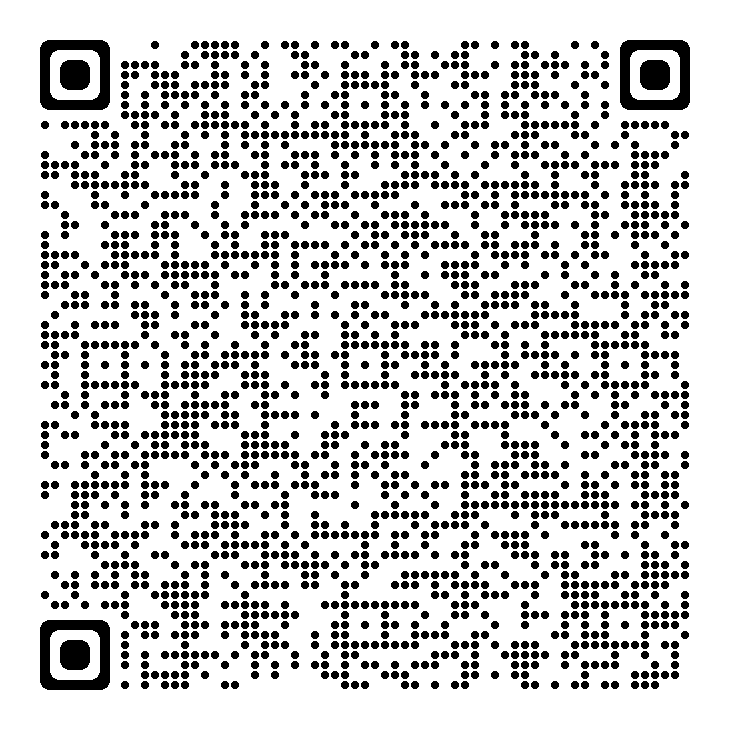
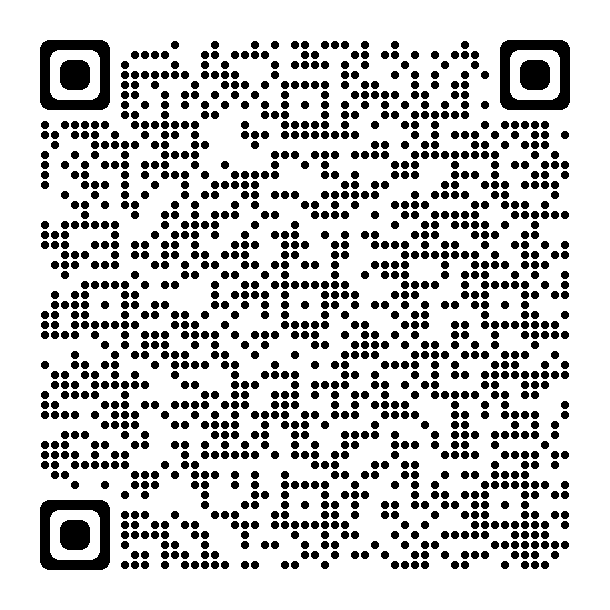
Update

diff --git a/index.html b/index.html
@@ -97,7 +97,7 @@
                             <span class="ms-2"><strong>ANDROID</strong></span>
                         </div>  
                         <div class="mt-3">
-                          <a href="https://firebasestorage.googleapis.com/v0/b/wsap-mobile-app.appspot.com/o/APKs%2FWSAP%20-%20Beta%20Testing%20v0.01.apk?alt=media&token=7044bb40-9a73-4260-ae14-76ce4f3a7557&fbclid=IwAR29vmSpfM3XDjQA9LY7F0fsFDjOasELI87h5Wfv_Xq4KhvWU9771NrYNKM" class="btn navButton">DOWNLOAD</a>     
+                          <a href="https://firebasestorage.googleapis.com/v0/b/wsap-mobile-app.appspot.com/o/APKs%2FWSAP-Mobile-App-v1.apk?alt=media&token=47dc329c-150b-4f69-a01d-d7e7bd38a027" class="btn navButton">DOWNLOAD</a>     
                       </div>          
                     </div>                     
               </div>
